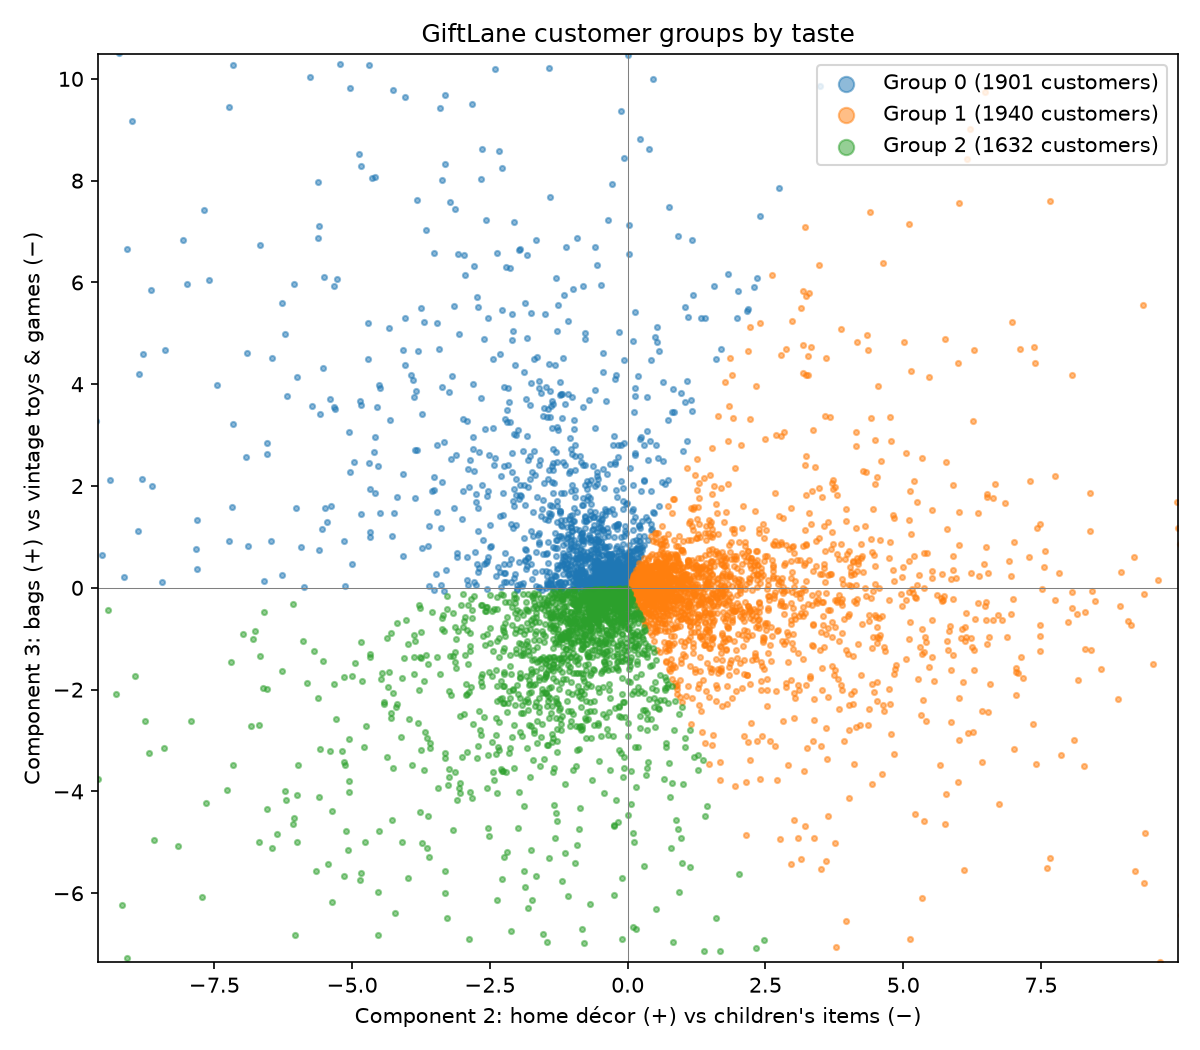
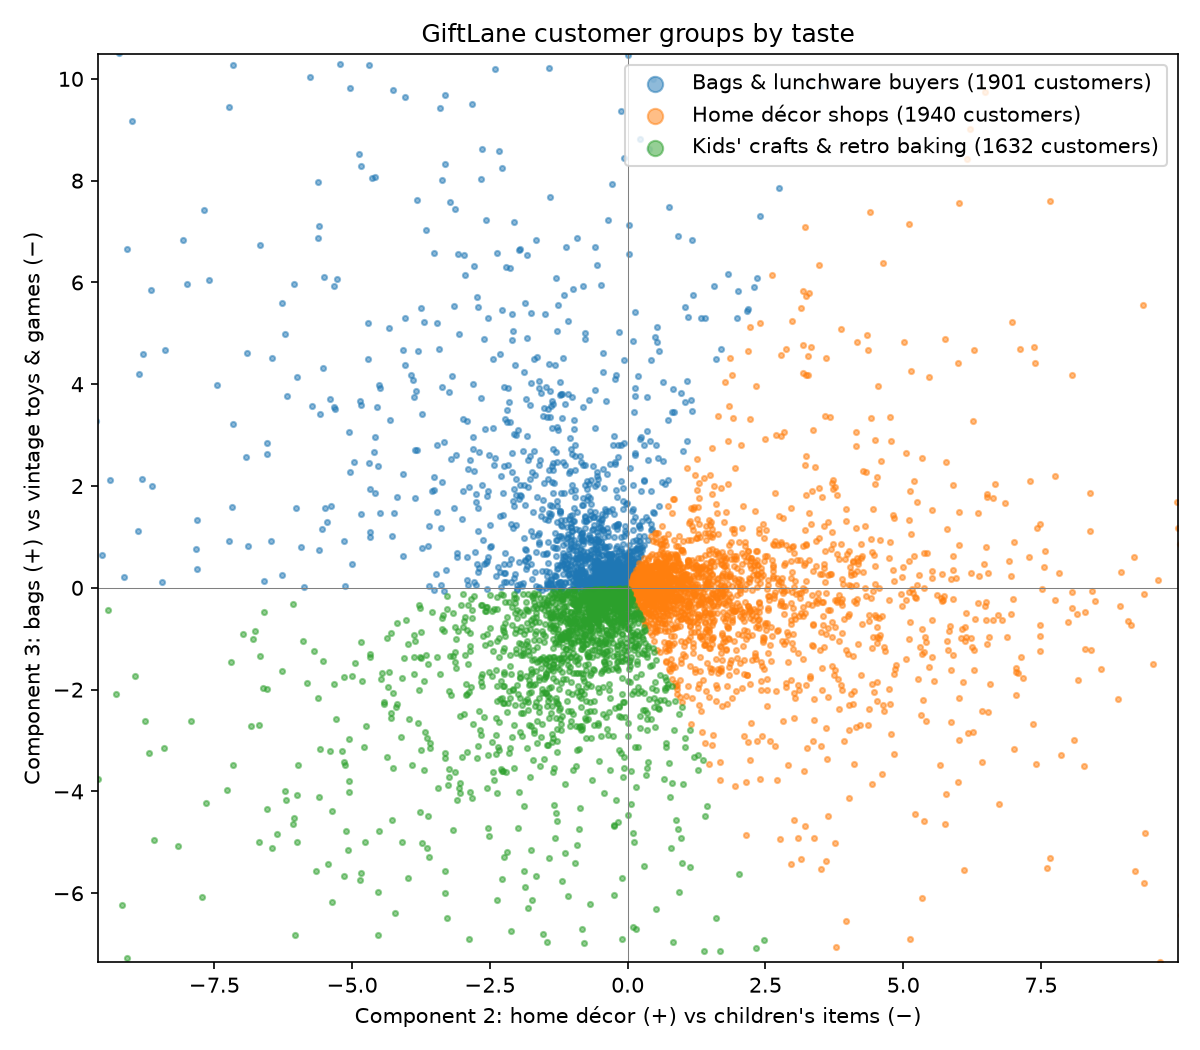
Ml6 improvements

Changed region(s): [[0.5242, 0.061, 0.9558, 0.1524]]

diff --git a/docs/decision_log.md b/docs/decision_log.md
@@ -29,3 +29,4 @@ Day 5 | ML1: Main model = Truncated SVD | A is 97.95% sparse (413,927 nnz, 4.99 
 Day 5 | ML5: Comparison model = PCA (svd_solver="arpack"), same k and matrix | Brief requires the other method on the same matrix; arpack centres implicitly, so the dense matrix is never built. Tests the prediction: SVD wins hit@10/time/memory, PCA gives the cleaner customer map. | ml.ipynb ML5 section; PCA vs SVD table
 Day 6 | ML4: baseline popularity = number of distinct train customers per product | Not units: a single wholesaler's bulk order shouldn't define a best seller; train only (R2) | ml.ipynb ML4 Chunk 4
 Day 6| ML4: score customers in batches of 500 | Avoids building the 161 MB dense score matrix in one go | ml.ipynb ML4 Chunk 3
+Day 6 | ML6: map on PCA comps 2-3, customers scaled to length 1; 3 groups | Comps 1-2 grouped by size (88/12/0.2%, all lifts < 1 in main group); comp 1 = size (corr 0.876). Scaling removes volume. 3 = best silhouette (0.548) | reports/figures/ml6_customer_map.png; reports/ml6_segments.csv
